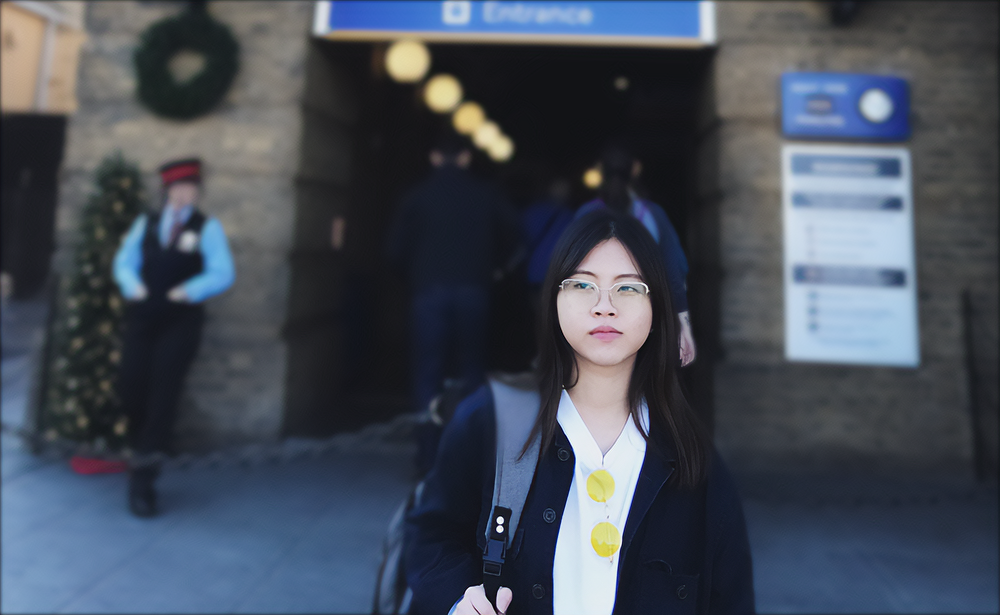
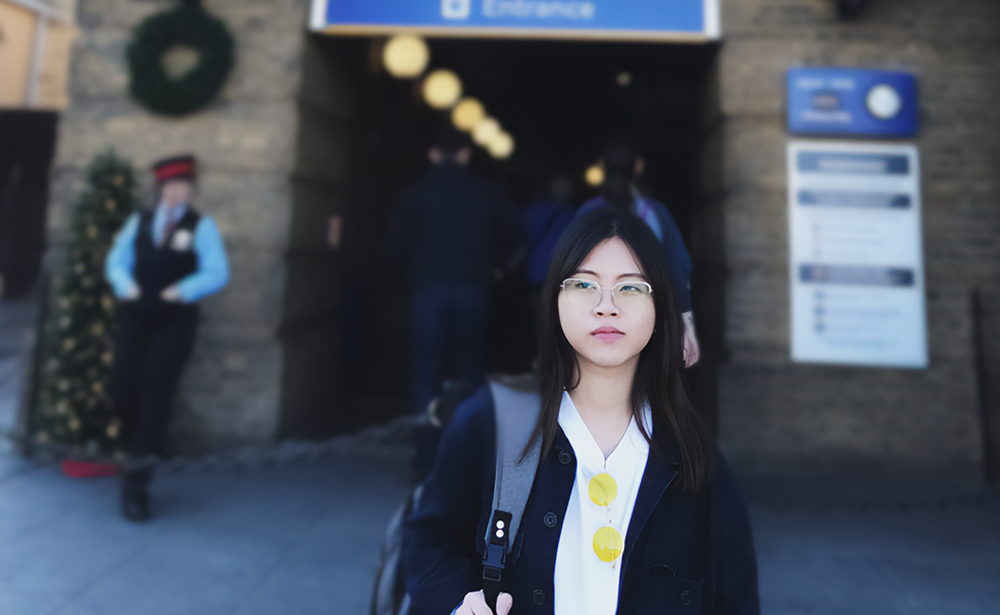
Updated portraits of team page.

diff --git a/src/pages/Team.html b/src/pages/Team.html
@@ -76,7 +76,7 @@
           >
         </li>
       </ul>
-      <span class="image fit"><img src="assets/images/pic03.jpg" alt="Camaryn Bennett" /></span>
+      <span class="image fit"><img src="assets/images/team/camaryn-bennett.png" alt="Camaryn Bennett" /></span>
       <blockquote class="fadeMe"><b>Fun fact:</b> I'm very good at remembering birthdays!</blockquote>
       <p class="fadeMe">
         Camaryn Bennett is a senior chemistry student. Camaryn joined the Miami University iGEM out of excitement to
@@ -300,7 +300,7 @@
           <a href="mailto:jiangz49@miamioh.edu" class="icon solid fa-envelope"><span class="label">Email</span></a>
         </li>
       </ul>
-      <span class="image fit"><img src="assets/images/pic09.jpg" alt="Portrait of Zhenxiong Jiangs" /></span>
+      <span class="image fit"><img src="assets/images/team/zhenxiong-jiangs.png" alt="Portrait of Zhenxiong Jiangs" /></span>
       <blockquote class="fadeMe">
         <b>Fun Fact:</b> I am happy to be back in the game even though I'm in a different role!
       </blockquote>
